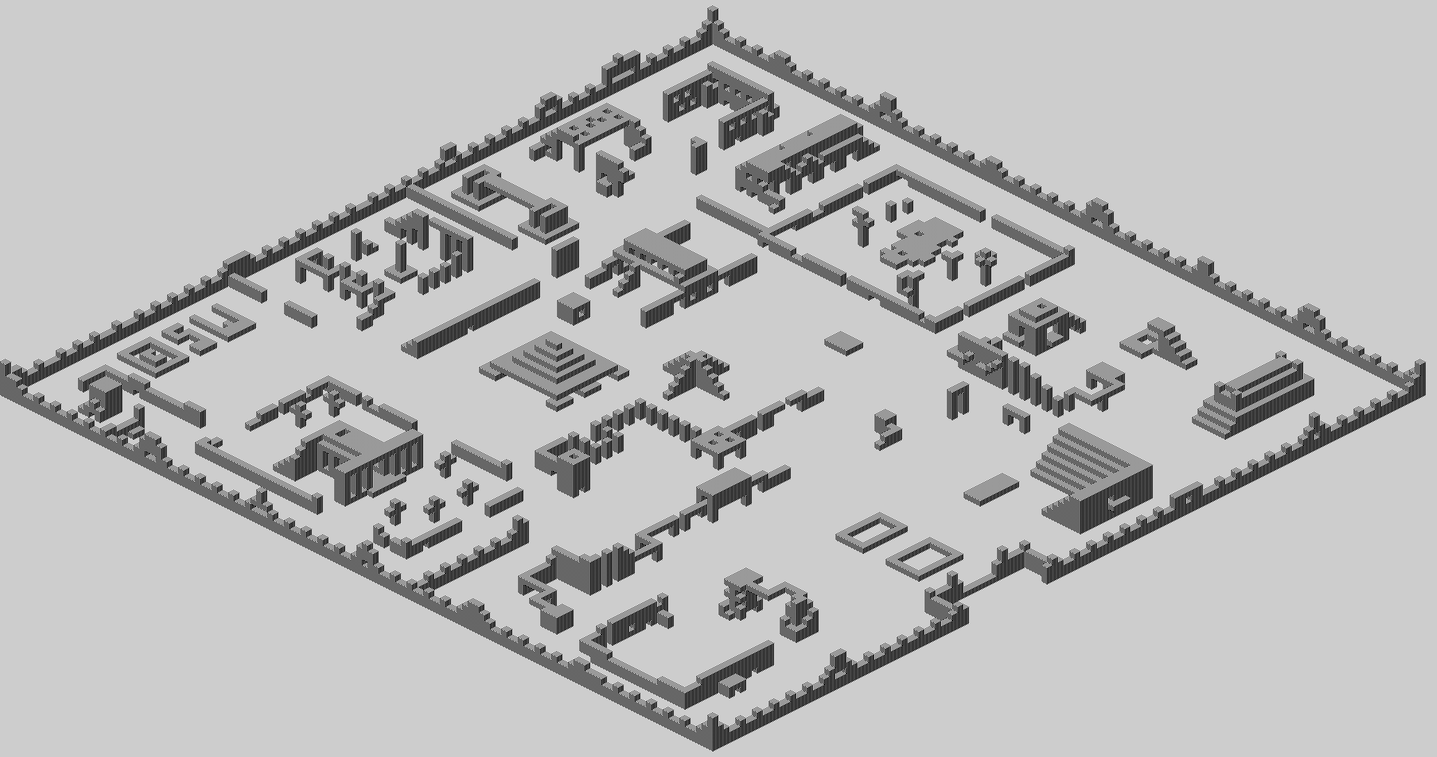
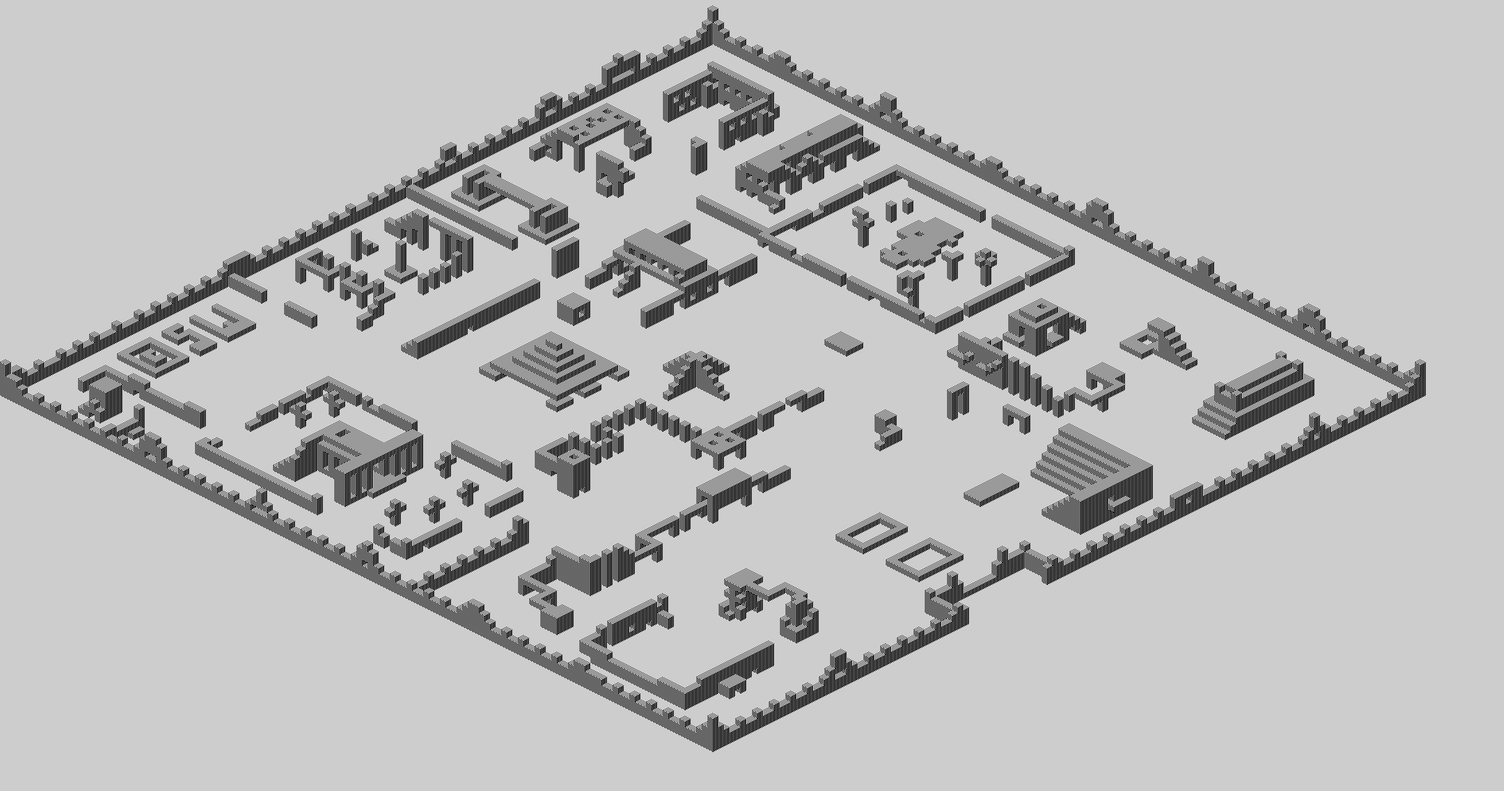
Update the published antattack disassembly
Built from master at 45df3ac0 by scripts/publish_pages.py.

Changed region(s): [[0.0, 0.0, 0.9922, 1.0]]

diff --git a/antattack/City.html b/antattack/City.html
@@ -15,14 +15,12 @@
 </tr>
 </table>
 <p>Antescher is a map of 128 by 128 cells at <a href="asm/49152.html">CITY_MAP</a>, one byte a cell and one bit a height: bit 0 is a block on the ground, bit 5 a block five up, so a wall is a column of set bits. Coordinates run from $80 to $FF; anything lower is outside the walls, where nothing is solid and nothing collides. Each row of the map is an entry of its own in the listing.</p>
-<p>From above, the taller the darker, with the open ground past the gate drawn below the city. x runs left to right, y top to bottom. Each layer is read from the game when these pages are built -- the city map, BASIC's DATA and the levels -- and a box shows or hides it. Click a row to see its bytes.</p>
-<div class="aa-layers"><input type="checkbox" class="aa-toggle" id="aa-layer-start" checked><label for="aa-layer-start"><span class="aa-key aa-key-start"></span>Where the player starts</label><input type="checkbox" class="aa-toggle" id="aa-layer-gate" checked><label for="aa-layer-gate"><span class="aa-key aa-key-gate"></span>The way in and out</label><input type="checkbox" class="aa-toggle" id="aa-layer-ants" checked><label for="aa-layer-ants"><span class="aa-key aa-key-ants"></span>Where the ants start</label><input type="checkbox" class="aa-toggle" id="aa-layer-rescue" checked><label for="aa-layer-rescue"><span class="aa-key aa-key-rescue"></span>Where someone waits, by level</label><div class="aa-city"><div class="aa-city-stack"><img src="images/city/above.png" usemap="#aacity" alt="Antescher from above" width="768" height="840"><img class="aa-layer aa-layer-start" src="images/city/layer_start.png" alt=""><img class="aa-layer aa-layer-gate" src="images/city/layer_gate.png" alt=""><img class="aa-layer aa-layer-ants" src="images/city/layer_ants.png" alt=""><img class="aa-layer aa-layer-rescue" src="images/city/layer_rescue.png" alt=""></div><map name="aacity"><area shape="rect" coords="0,0,768,6" href="asm/49152.html" title="y=$80" alt="y=$80"><area shape="rect" coords="0,6,768,12" href="asm/49280.html" title="y=$81" alt="y=$81"><area shape="rect" coords="0,12,768,18" href="asm/49408.html" title="y=$82" alt="y=$82"><area shape="rect" coords="0,18,768,24" href="asm/49536.html" title="y=$83" alt="y=$83"><area shape="rect" coords="0,24,768,30" href="asm/49664.html" title="y=$84" alt="y=$84"><area shape="rect" coords="0,30,768,36" href="asm/49792.html" title="y=$85" alt="y=$85"><area shape="rect" coords="0,36,768,42" href="asm/49920.html" title="y=$86" alt="y=$86"><area shape="rect" coords="0,42,768,48" href="asm/50048.html" title="y=$87" alt="y=$87"><area shape="rect" coords="0,48,768,54" href="asm/50176.html" title="y=$88" alt="y=$88"><area shape="rect" coords="0,54,768,60" href="asm/50304.html" title="y=$89" alt="y=$89"><area shape="rect" coords="0,60,768,66" href="asm/50432.html" title="y=$8A" alt="y=$8A"><area shape="rect" coords="0,66,768,72" href="asm/50560.html" title="y=$8B" alt="y=$8B"><area shape="rect" coords="0,72,768,78" href="asm/50688.html" title="y=$8C" alt="y=$8C"><area shape="rect" coords="0,78,768,84" href="asm/50816.html" title="y=$8D" alt="y=$8D"><area shape="rect" coords="0,84,768,90" href="asm/50944.html" title="y=$8E" alt="y=$8E"><area shape="rect" coords="0,90,768,96" href="asm/51072.html" title="y=$8F" alt="y=$8F"><area shape="rect" coords="0,96,768,102" href="asm/51200.html" title="y=$90" alt="y=$90"><area shape="rect" coords="0,102,768,108" href="asm/51328.html" title="y=$91" alt="y=$91"><area shape="rect" coords="0,108,768,114" href="asm/51456.html" title="y=$92" alt="y=$92"><area shape="rect" coords="0,114,768,120" href="asm/51584.html" title="y=$93" alt="y=$93"><area shape="rect" coords="0,120,768,126" href="asm/51712.html" title="y=$94" alt="y=$94"><area shape="rect" coords="0,126,768,132" href="asm/51840.html" title="y=$95" alt="y=$95"><area shape="rect" coords="0,132,768,138" href="asm/51968.html" title="y=$96" alt="y=$96"><area shape="rect" coords="0,138,768,144" href="asm/52096.html" title="y=$97" alt="y=$97"><area shape="rect" coords="0,144,768,150" href="asm/52224.html" title="y=$98" alt="y=$98"><area shape="rect" coords="0,150,768,156" href="asm/52352.html" title="y=$99" alt="y=$99"><area shape="rect" coords="0,156,768,162" href="asm/52480.html" title="y=$9A" alt="y=$9A"><area shape="rect" coords="0,162,768,168" href="asm/52608.html" title="y=$9B" alt="y=$9B"><area shape="rect" coords="0,168,768,174" href="asm/52736.html" title="y=$9C" alt="y=$9C"><area shape="rect" coords="0,174,768,180" href="asm/52864.html" title="y=$9D" alt="y=$9D"><area shape="rect" coords="0,180,768,186" href="asm/52992.html" title="y=$9E" alt="y=$9E"><area shape="rect" coords="0,186,768,192" href="asm/53120.html" title="y=$9F" alt="y=$9F"><area shape="rect" coords="0,192,768,198" href="asm/53248.html" title="y=$A0" alt="y=$A0"><area shape="rect" coords="0,198,768,204" href="asm/53376.html" title="y=$A1" alt="y=$A1"><area shape="rect" coords="0,204,768,210" href="asm/53504.html" title="y=$A2" alt="y=$A2"><area shape="rect" coords="0,210,768,216" href="asm/53632.html" title="y=$A3" alt="y=$A3"><area shape="rect" coords="0,216,768,222" href="asm/53760.html" title="y=$A4" alt="y=$A4"><area shape="rect" coords="0,222,768,228" href="asm/53888.html" title="y=$A5" alt="y=$A5"><area shape="rect" coords="0,228,768,234" href="asm/54016.html" title="y=$A6" alt="y=$A6"><area shape="rect" coords="0,234,768,240" href="asm/54144.html" title="y=$A7" alt="y=$A7"><area shape="rect" coords="0,240,768,246" href="asm/54272.html" title="y=$A8" alt="y=$A8"><area shape="rect" coords="0,246,768,252" href="asm/54400.html" title="y=$A9" alt="y=$A9"><area shape="rect" coords="0,252,768,258" href="asm/54528.html" title="y=$AA" alt="y=$AA"><area shape="rect" coords="0,258,768,264" href="asm/54656.html" title="y=$AB" alt="y=$AB"><area shape="rect" coords="0,264,768,270" href="asm/54784.html" title="y=$AC" alt="y=$AC"><area shape="rect" coords="0,270,768,276" href="asm/54912.html" title="y=$AD" alt="y=$AD"><area shape="rect" coords="0,276,768,282" href="asm/55040.html" title="y=$AE" alt="y=$AE"><area shape="rect" coords="0,282,768,288" href="asm/55168.html" title="y=$AF" alt="y=$AF"><area shape="rect" coords="0,288,768,294" href="asm/55296.html" title="y=$B0" alt="y=$B0"><area shape="rect" coords="0,294,768,300" href="asm/55424.html" title="y=$B1" alt="y=$B1"><area shape="rect" coords="0,300,768,306" href="asm/55552.html" title="y=$B2" alt="y=$B2"><area shape="rect" coords="0,306,768,312" href="asm/55680.html" title="y=$B3" alt="y=$B3"><area shape="rect" coords="0,312,768,318" href="asm/55808.html" title="y=$B4" alt="y=$B4"><area shape="rect" coords="0,318,768,324" href="asm/55936.html" title="y=$B5" alt="y=$B5"><area shape="rect" coords="0,324,768,330" href="asm/56064.html" title="y=$B6" alt="y=$B6"><area shape="rect" coords="0,330,768,336" href="asm/56192.html" title="y=$B7" alt="y=$B7"><area shape="rect" coords="0,336,768,342" href="asm/56320.html" title="y=$B8" alt="y=$B8"><area shape="rect" coords="0,342,768,348" href="asm/56448.html" title="y=$B9" alt="y=$B9"><area shape="rect" coords="0,348,768,354" href="asm/56576.html" title="y=$BA" alt="y=$BA"><area shape="rect" coords="0,354,768,360" href="asm/56704.html" title="y=$BB" alt="y=$BB"><area shape="rect" coords="0,360,768,366" href="asm/56832.html" title="y=$BC" alt="y=$BC"><area shape="rect" coords="0,366,768,372" href="asm/56960.html" title="y=$BD" alt="y=$BD"><area shape="rect" coords="0,372,768,378" href="asm/57088.html" title="y=$BE" alt="y=$BE"><area shape="rect" coords="0,378,768,384" href="asm/57216.html" title="y=$BF" alt="y=$BF"><area shape="rect" coords="0,384,768,390" href="asm/57344.html" title="y=$C0" alt="y=$C0"><area shape="rect" coords="0,390,768,396" href="asm/57472.html" title="y=$C1" alt="y=$C1"><area shape="rect" coords="0,396,768,402" href="asm/57600.html" title="y=$C2" alt="y=$C2"><area shape="rect" coords="0,402,768,408" href="asm/57728.html" title="y=$C3" alt="y=$C3"><area shape="rect" coords="0,408,768,414" href="asm/57856.html" title="y=$C4" alt="y=$C4"><area shape="rect" coords="0,414,768,420" href="asm/57984.html" title="y=$C5" alt="y=$C5"><area shape="rect" coords="0,420,768,426" href="asm/58112.html" title="y=$C6" alt="y=$C6"><area shape="rect" coords="0,426,768,432" href="asm/58240.html" title="y=$C7" alt="y=$C7"><area shape="rect" coords="0,432,768,438" href="asm/58368.html" title="y=$C8" alt="y=$C8"><area shape="rect" coords="0,438,768,444" href="asm/58496.html" title="y=$C9" alt="y=$C9"><area shape="rect" coords="0,444,768,450" href="asm/58624.html" title="y=$CA" alt="y=$CA"><area shape="rect" coords="0,450,768,456" href="asm/58752.html" title="y=$CB" alt="y=$CB"><area shape="rect" coords="0,456,768,462" href="asm/58880.html" title="y=$CC" alt="y=$CC"><area shape="rect" coords="0,462,768,468" href="asm/59008.html" title="y=$CD" alt="y=$CD"><area shape="rect" coords="0,468,768,474" href="asm/59136.html" title="y=$CE" alt="y=$CE"><area shape="rect" coords="0,474,768,480" href="asm/59264.html" title="y=$CF" alt="y=$CF"><area shape="rect" coords="0,480,768,486" href="asm/59392.html" title="y=$D0" alt="y=$D0"><area shape="rect" coords="0,486,768,492" href="asm/59520.html" title="y=$D1" alt="y=$D1"><area shape="rect" coords="0,492,768,498" href="asm/59648.html" title="y=$D2" alt="y=$D2"><area shape="rect" coords="0,498,768,504" href="asm/59776.html" title="y=$D3" alt="y=$D3"><area shape="rect" coords="0,504,768,510" href="asm/59904.html" title="y=$D4" alt="y=$D4"><area shape="rect" coords="0,510,768,516" href="asm/60032.html" title="y=$D5" alt="y=$D5"><area shape="rect" coords="0,516,768,522" href="asm/60160.html" title="y=$D6" alt="y=$D6"><area shape="rect" coords="0,522,768,528" href="asm/60288.html" title="y=$D7" alt="y=$D7"><area shape="rect" coords="0,528,768,534" href="asm/60416.html" title="y=$D8" alt="y=$D8"><area shape="rect" coords="0,534,768,540" href="asm/60544.html" title="y=$D9" alt="y=$D9"><area shape="rect" coords="0,540,768,546" href="asm/60672.html" title="y=$DA" alt="y=$DA"><area shape="rect" coords="0,546,768,552" href="asm/60800.html" title="y=$DB" alt="y=$DB"><area shape="rect" coords="0,552,768,558" href="asm/60928.html" title="y=$DC" alt="y=$DC"><area shape="rect" coords="0,558,768,564" href="asm/61056.html" title="y=$DD" alt="y=$DD"><area shape="rect" coords="0,564,768,570" href="asm/61184.html" title="y=$DE" alt="y=$DE"><area shape="rect" coords="0,570,768,576" href="asm/61312.html" title="y=$DF" alt="y=$DF"><area shape="rect" coords="0,576,768,582" href="asm/61440.html" title="y=$E0" alt="y=$E0"><area shape="rect" coords="0,582,768,588" href="asm/61568.html" title="y=$E1" alt="y=$E1"><area shape="rect" coords="0,588,768,594" href="asm/61696.html" title="y=$E2" alt="y=$E2"><area shape="rect" coords="0,594,768,600" href="asm/61824.html" title="y=$E3" alt="y=$E3"><area shape="rect" coords="0,600,768,606" href="asm/61952.html" title="y=$E4" alt="y=$E4"><area shape="rect" coords="0,606,768,612" href="asm/62080.html" title="y=$E5" alt="y=$E5"><area shape="rect" coords="0,612,768,618" href="asm/62208.html" title="y=$E6" alt="y=$E6"><area shape="rect" coords="0,618,768,624" href="asm/62336.html" title="y=$E7" alt="y=$E7"><area shape="rect" coords="0,624,768,630" href="asm/62464.html" title="y=$E8" alt="y=$E8"><area shape="rect" coords="0,630,768,636" href="asm/62592.html" title="y=$E9" alt="y=$E9"><area shape="rect" coords="0,636,768,642" href="asm/62720.html" title="y=$EA" alt="y=$EA"><area shape="rect" coords="0,642,768,648" href="asm/62848.html" title="y=$EB" alt="y=$EB"><area shape="rect" coords="0,648,768,654" href="asm/62976.html" title="y=$EC" alt="y=$EC"><area shape="rect" coords="0,654,768,660" href="asm/63104.html" title="y=$ED" alt="y=$ED"><area shape="rect" coords="0,660,768,666" href="asm/63232.html" title="y=$EE" alt="y=$EE"><area shape="rect" coords="0,666,768,672" href="asm/63360.html" title="y=$EF" alt="y=$EF"><area shape="rect" coords="0,672,768,678" href="asm/63488.html" title="y=$F0" alt="y=$F0"><area shape="rect" coords="0,678,768,684" href="asm/63616.html" title="y=$F1" alt="y=$F1"><area shape="rect" coords="0,684,768,690" href="asm/63744.html" title="y=$F2" alt="y=$F2"><area shape="rect" coords="0,690,768,696" href="asm/63872.html" title="y=$F3" alt="y=$F3"><area shape="rect" coords="0,696,768,702" href="asm/64000.html" title="y=$F4" alt="y=$F4"><area shape="rect" coords="0,702,768,708" href="asm/64128.html" title="y=$F5" alt="y=$F5"><area shape="rect" coords="0,708,768,714" href="asm/64256.html" title="y=$F6" alt="y=$F6"><area shape="rect" coords="0,714,768,720" href="asm/64384.html" title="y=$F7" alt="y=$F7"><area shape="rect" coords="0,720,768,726" href="asm/64512.html" title="y=$F8" alt="y=$F8"><area shape="rect" coords="0,726,768,732" href="asm/64640.html" title="y=$F9" alt="y=$F9"><area shape="rect" coords="0,732,768,738" href="asm/64768.html" title="y=$FA" alt="y=$FA"><area shape="rect" coords="0,738,768,744" href="asm/64896.html" title="y=$FB" alt="y=$FB"><area shape="rect" coords="0,744,768,750" href="asm/65024.html" title="y=$FC" alt="y=$FC"><area shape="rect" coords="0,750,768,756" href="asm/65152.html" title="y=$FD" alt="y=$FD"><area shape="rect" coords="0,756,768,762" href="asm/65280.html" title="y=$FE" alt="y=$FE"><area shape="rect" coords="0,762,768,768" href="asm/65408.html" title="y=$FF" alt="y=$FF"></map></div></div>
+<p>The whole city at once, the way the game draws a corner of it: view 0, each block the picture <a href="asm/33283.html">DRAW_BLOCK</a> paints -- captured by running that routine rather than copied -- and painted in the same order <a href="asm/34048.html">DRAW_SCENE</a> uses, lowest height first and then from the back, so every block hides exactly what it hides in the game. x runs up and to the right, y down and to the right; the open ground past the gate, where the player starts, is in front of the city at the bottom right. Each layer is read from the game when these pages are built -- the city map, BASIC's DATA and the levels -- and a box shows or hides it; a mark sits on its cell's ground, so one behind a wall shows through it. Click a row of the city to see its bytes.</p>
+<div class="aa-layers"><input type="checkbox" class="aa-toggle" id="aa-layer-start" checked><label for="aa-layer-start"><span class="aa-key aa-key-start"></span>Where the player starts</label><input type="checkbox" class="aa-toggle" id="aa-layer-gate" checked><label for="aa-layer-gate"><span class="aa-key aa-key-gate"></span>The way in and out</label><input type="checkbox" class="aa-toggle" id="aa-layer-ants" checked><label for="aa-layer-ants"><span class="aa-key aa-key-ants"></span>Where the ants start</label><input type="checkbox" class="aa-toggle" id="aa-layer-rescue" checked><label for="aa-layer-rescue"><span class="aa-key aa-key-rescue"></span>Where someone waits, by level</label><div class="aa-city"><div class="aa-city-stack"><img src="images/city/city.png" usemap="#aacity" alt="Antescher in the game's projection" width="2160" height="1136"><img class="aa-layer aa-layer-start" src="images/city/layer_start.png" alt=""><img class="aa-layer aa-layer-gate" src="images/city/layer_gate.png" alt=""><img class="aa-layer aa-layer-ants" src="images/city/layer_ants.png" alt=""><img class="aa-layer aa-layer-rescue" src="images/city/layer_rescue.png" alt=""></div><map name="aacity"><area shape="poly" coords="0,567,1024,55,1032,59,8,571" href="asm/49152.html" title="y=$80" alt="y=$80"><area shape="poly" coords="8,571,1032,59,1040,63,16,575" href="asm/49280.html" title="y=$81" alt="y=$81"><area shape="poly" coords="16,575,1040,63,1048,67,24,579" href="asm/49408.html" title="y=$82" alt="y=$82"><area shape="poly" coords="24,579,1048,67,1056,71,32,583" href="asm/49536.html" title="y=$83" alt="y=$83"><area shape="poly" coords="32,583,1056,71,1064,75,40,587" href="asm/49664.html" title="y=$84" alt="y=$84"><area shape="poly" coords="40,587,1064,75,1072,79,48,591" href="asm/49792.html" title="y=$85" alt="y=$85"><area shape="poly" coords="48,591,1072,79,1080,83,56,595" href="asm/49920.html" title="y=$86" alt="y=$86"><area shape="poly" coords="56,595,1080,83,1088,87,64,599" href="asm/50048.html" title="y=$87" alt="y=$87"><area shape="poly" coords="64,599,1088,87,1096,91,72,603" href="asm/50176.html" title="y=$88" alt="y=$88"><area shape="poly" coords="72,603,1096,91,1104,95,80,607" href="asm/50304.html" title="y=$89" alt="y=$89"><area shape="poly" coords="80,607,1104,95,1112,99,88,611" href="asm/50432.html" title="y=$8A" alt="y=$8A"><area shape="poly" coords="88,611,1112,99,1120,103,96,615" href="asm/50560.html" title="y=$8B" alt="y=$8B"><area shape="poly" coords="96,615,1120,103,1128,107,104,619" href="asm/50688.html" title="y=$8C" alt="y=$8C"><area shape="poly" coords="104,619,1128,107,1136,111,112,623" href="asm/50816.html" title="y=$8D" alt="y=$8D"><area shape="poly" coords="112,623,1136,111,1144,115,120,627" href="asm/50944.html" title="y=$8E" alt="y=$8E"><area shape="poly" coords="120,627,1144,115,1152,119,128,631" href="asm/51072.html" title="y=$8F" alt="y=$8F"><area shape="poly" coords="128,631,1152,119,1160,123,136,635" href="asm/51200.html" title="y=$90" alt="y=$90"><area shape="poly" coords="136,635,1160,123,1168,127,144,639" href="asm/51328.html" title="y=$91" alt="y=$91"><area shape="poly" coords="144,639,1168,127,1176,131,152,643" href="asm/51456.html" title="y=$92" alt="y=$92"><area shape="poly" coords="152,643,1176,131,1184,135,160,647" href="asm/51584.html" title="y=$93" alt="y=$93"><area shape="poly" coords="160,647,1184,135,1192,139,168,651" href="asm/51712.html" title="y=$94" alt="y=$94"><area shape="poly" coords="168,651,1192,139,1200,143,176,655" href="asm/51840.html" title="y=$95" alt="y=$95"><area shape="poly" coords="176,655,1200,143,1208,147,184,659" href="asm/51968.html" title="y=$96" alt="y=$96"><area shape="poly" coords="184,659,1208,147,1216,151,192,663" href="asm/52096.html" title="y=$97" alt="y=$97"><area shape="poly" coords="192,663,1216,151,1224,155,200,667" href="asm/52224.html" title="y=$98" alt="y=$98"><area shape="poly" coords="200,667,1224,155,1232,159,208,671" href="asm/52352.html" title="y=$99" alt="y=$99"><area shape="poly" coords="208,671,1232,159,1240,163,216,675" href="asm/52480.html" title="y=$9A" alt="y=$9A"><area shape="poly" coords="216,675,1240,163,1248,167,224,679" href="asm/52608.html" title="y=$9B" alt="y=$9B"><area shape="poly" coords="224,679,1248,167,1256,171,232,683" href="asm/52736.html" title="y=$9C" alt="y=$9C"><area shape="poly" coords="232,683,1256,171,1264,175,240,687" href="asm/52864.html" title="y=$9D" alt="y=$9D"><area shape="poly" coords="240,687,1264,175,1272,179,248,691" href="asm/52992.html" title="y=$9E" alt="y=$9E"><area shape="poly" coords="248,691,1272,179,1280,183,256,695" href="asm/53120.html" title="y=$9F" alt="y=$9F"><area shape="poly" coords="256,695,1280,183,1288,187,264,699" href="asm/53248.html" title="y=$A0" alt="y=$A0"><area shape="poly" coords="264,699,1288,187,1296,191,272,703" href="asm/53376.html" title="y=$A1" alt="y=$A1"><area shape="poly" coords="272,703,1296,191,1304,195,280,707" href="asm/53504.html" title="y=$A2" alt="y=$A2"><area shape="poly" coords="280,707,1304,195,1312,199,288,711" href="asm/53632.html" title="y=$A3" alt="y=$A3"><area shape="poly" coords="288,711,1312,199,1320,203,296,715" href="asm/53760.html" title="y=$A4" alt="y=$A4"><area shape="poly" coords="296,715,1320,203,1328,207,304,719" href="asm/53888.html" title="y=$A5" alt="y=$A5"><area shape="poly" coords="304,719,1328,207,1336,211,312,723" href="asm/54016.html" title="y=$A6" alt="y=$A6"><area shape="poly" coords="312,723,1336,211,1344,215,320,727" href="asm/54144.html" title="y=$A7" alt="y=$A7"><area shape="poly" coords="320,727,1344,215,1352,219,328,731" href="asm/54272.html" title="y=$A8" alt="y=$A8"><area shape="poly" coords="328,731,1352,219,1360,223,336,735" href="asm/54400.html" title="y=$A9" alt="y=$A9"><area shape="poly" coords="336,735,1360,223,1368,227,344,739" href="asm/54528.html" title="y=$AA" alt="y=$AA"><area shape="poly" coords="344,739,1368,227,1376,231,352,743" href="asm/54656.html" title="y=$AB" alt="y=$AB"><area shape="poly" coords="352,743,1376,231,1384,235,360,747" href="asm/54784.html" title="y=$AC" alt="y=$AC"><area shape="poly" coords="360,747,1384,235,1392,239,368,751" href="asm/54912.html" title="y=$AD" alt="y=$AD"><area shape="poly" coords="368,751,1392,239,1400,243,376,755" href="asm/55040.html" title="y=$AE" alt="y=$AE"><area shape="poly" coords="376,755,1400,243,1408,247,384,759" href="asm/55168.html" title="y=$AF" alt="y=$AF"><area shape="poly" coords="384,759,1408,247,1416,251,392,763" href="asm/55296.html" title="y=$B0" alt="y=$B0"><area shape="poly" coords="392,763,1416,251,1424,255,400,767" href="asm/55424.html" title="y=$B1" alt="y=$B1"><area shape="poly" coords="400,767,1424,255,1432,259,408,771" href="asm/55552.html" title="y=$B2" alt="y=$B2"><area shape="poly" coords="408,771,1432,259,1440,263,416,775" href="asm/55680.html" title="y=$B3" alt="y=$B3"><area shape="poly" coords="416,775,1440,263,1448,267,424,779" href="asm/55808.html" title="y=$B4" alt="y=$B4"><area shape="poly" coords="424,779,1448,267,1456,271,432,783" href="asm/55936.html" title="y=$B5" alt="y=$B5"><area shape="poly" coords="432,783,1456,271,1464,275,440,787" href="asm/56064.html" title="y=$B6" alt="y=$B6"><area shape="poly" coords="440,787,1464,275,1472,279,448,791" href="asm/56192.html" title="y=$B7" alt="y=$B7"><area shape="poly" coords="448,791,1472,279,1480,283,456,795" href="asm/56320.html" title="y=$B8" alt="y=$B8"><area shape="poly" coords="456,795,1480,283,1488,287,464,799" href="asm/56448.html" title="y=$B9" alt="y=$B9"><area shape="poly" coords="464,799,1488,287,1496,291,472,803" href="asm/56576.html" title="y=$BA" alt="y=$BA"><area shape="poly" coords="472,803,1496,291,1504,295,480,807" href="asm/56704.html" title="y=$BB" alt="y=$BB"><area shape="poly" coords="480,807,1504,295,1512,299,488,811" href="asm/56832.html" title="y=$BC" alt="y=$BC"><area shape="poly" coords="488,811,1512,299,1520,303,496,815" href="asm/56960.html" title="y=$BD" alt="y=$BD"><area shape="poly" coords="496,815,1520,303,1528,307,504,819" href="asm/57088.html" title="y=$BE" alt="y=$BE"><area shape="poly" coords="504,819,1528,307,1536,311,512,823" href="asm/57216.html" title="y=$BF" alt="y=$BF"><area shape="poly" coords="512,823,1536,311,1544,315,520,827" href="asm/57344.html" title="y=$C0" alt="y=$C0"><area shape="poly" coords="520,827,1544,315,1552,319,528,831" href="asm/57472.html" title="y=$C1" alt="y=$C1"><area shape="poly" coords="528,831,1552,319,1560,323,536,835" href="asm/57600.html" title="y=$C2" alt="y=$C2"><area shape="poly" coords="536,835,1560,323,1568,327,544,839" href="asm/57728.html" title="y=$C3" alt="y=$C3"><area shape="poly" coords="544,839,1568,327,1576,331,552,843" href="asm/57856.html" title="y=$C4" alt="y=$C4"><area shape="poly" coords="552,843,1576,331,1584,335,560,847" href="asm/57984.html" title="y=$C5" alt="y=$C5"><area shape="poly" coords="560,847,1584,335,1592,339,568,851" href="asm/58112.html" title="y=$C6" alt="y=$C6"><area shape="poly" coords="568,851,1592,339,1600,343,576,855" href="asm/58240.html" title="y=$C7" alt="y=$C7"><area shape="poly" coords="576,855,1600,343,1608,347,584,859" href="asm/58368.html" title="y=$C8" alt="y=$C8"><area shape="poly" coords="584,859,1608,347,1616,351,592,863" href="asm/58496.html" title="y=$C9" alt="y=$C9"><area shape="poly" coords="592,863,1616,351,1624,355,600,867" href="asm/58624.html" title="y=$CA" alt="y=$CA"><area shape="poly" coords="600,867,1624,355,1632,359,608,871" href="asm/58752.html" title="y=$CB" alt="y=$CB"><area shape="poly" coords="608,871,1632,359,1640,363,616,875" href="asm/58880.html" title="y=$CC" alt="y=$CC"><area shape="poly" coords="616,875,1640,363,1648,367,624,879" href="asm/59008.html" title="y=$CD" alt="y=$CD"><area shape="poly" coords="624,879,1648,367,1656,371,632,883" href="asm/59136.html" title="y=$CE" alt="y=$CE"><area shape="poly" coords="632,883,1656,371,1664,375,640,887" href="asm/59264.html" title="y=$CF" alt="y=$CF"><area shape="poly" coords="640,887,1664,375,1672,379,648,891" href="asm/59392.html" title="y=$D0" alt="y=$D0"><area shape="poly" coords="648,891,1672,379,1680,383,656,895" href="asm/59520.html" title="y=$D1" alt="y=$D1"><area shape="poly" coords="656,895,1680,383,1688,387,664,899" href="asm/59648.html" title="y=$D2" alt="y=$D2"><area shape="poly" coords="664,899,1688,387,1696,391,672,903" href="asm/59776.html" title="y=$D3" alt="y=$D3"><area shape="poly" coords="672,903,1696,391,1704,395,680,907" href="asm/59904.html" title="y=$D4" alt="y=$D4"><area shape="poly" coords="680,907,1704,395,1712,399,688,911" href="asm/60032.html" title="y=$D5" alt="y=$D5"><area shape="poly" coords="688,911,1712,399,1720,403,696,915" href="asm/60160.html" title="y=$D6" alt="y=$D6"><area shape="poly" coords="696,915,1720,403,1728,407,704,919" href="asm/60288.html" title="y=$D7" alt="y=$D7"><area shape="poly" coords="704,919,1728,407,1736,411,712,923" href="asm/60416.html" title="y=$D8" alt="y=$D8"><area shape="poly" coords="712,923,1736,411,1744,415,720,927" href="asm/60544.html" title="y=$D9" alt="y=$D9"><area shape="poly" coords="720,927,1744,415,1752,419,728,931" href="asm/60672.html" title="y=$DA" alt="y=$DA"><area shape="poly" coords="728,931,1752,419,1760,423,736,935" href="asm/60800.html" title="y=$DB" alt="y=$DB"><area shape="poly" coords="736,935,1760,423,1768,427,744,939" href="asm/60928.html" title="y=$DC" alt="y=$DC"><area shape="poly" coords="744,939,1768,427,1776,431,752,943" href="asm/61056.html" title="y=$DD" alt="y=$DD"><area shape="poly" coords="752,943,1776,431,1784,435,760,947" href="asm/61184.html" title="y=$DE" alt="y=$DE"><area shape="poly" coords="760,947,1784,435,1792,439,768,951" href="asm/61312.html" title="y=$DF" alt="y=$DF"><area shape="poly" coords="768,951,1792,439,1800,443,776,955" href="asm/61440.html" title="y=$E0" alt="y=$E0"><area shape="poly" coords="776,955,1800,443,1808,447,784,959" href="asm/61568.html" title="y=$E1" alt="y=$E1"><area shape="poly" coords="784,959,1808,447,1816,451,792,963" href="asm/61696.html" title="y=$E2" alt="y=$E2"><area shape="poly" coords="792,963,1816,451,1824,455,800,967" href="asm/61824.html" title="y=$E3" alt="y=$E3"><area shape="poly" coords="800,967,1824,455,1832,459,808,971" href="asm/61952.html" title="y=$E4" alt="y=$E4"><area shape="poly" coords="808,971,1832,459,1840,463,816,975" href="asm/62080.html" title="y=$E5" alt="y=$E5"><area shape="poly" coords="816,975,1840,463,1848,467,824,979" href="asm/62208.html" title="y=$E6" alt="y=$E6"><area shape="poly" coords="824,979,1848,467,1856,471,832,983" href="asm/62336.html" title="y=$E7" alt="y=$E7"><area shape="poly" coords="832,983,1856,471,1864,475,840,987" href="asm/62464.html" title="y=$E8" alt="y=$E8"><area shape="poly" coords="840,987,1864,475,1872,479,848,991" href="asm/62592.html" title="y=$E9" alt="y=$E9"><area shape="poly" coords="848,991,1872,479,1880,483,856,995" href="asm/62720.html" title="y=$EA" alt="y=$EA"><area shape="poly" coords="856,995,1880,483,1888,487,864,999" href="asm/62848.html" title="y=$EB" alt="y=$EB"><area shape="poly" coords="864,999,1888,487,1896,491,872,1003" href="asm/62976.html" title="y=$EC" alt="y=$EC"><area shape="poly" coords="872,1003,1896,491,1904,495,880,1007" href="asm/63104.html" title="y=$ED" alt="y=$ED"><area shape="poly" coords="880,1007,1904,495,1912,499,888,1011" href="asm/63232.html" title="y=$EE" alt="y=$EE"><area shape="poly" coords="888,1011,1912,499,1920,503,896,1015" href="asm/63360.html" title="y=$EF" alt="y=$EF"><area shape="poly" coords="896,1015,1920,503,1928,507,904,1019" href="asm/63488.html" title="y=$F0" alt="y=$F0"><area shape="poly" coords="904,1019,1928,507,1936,511,912,1023" href="asm/63616.html" title="y=$F1" alt="y=$F1"><area shape="poly" coords="912,1023,1936,511,1944,515,920,1027" href="asm/63744.html" title="y=$F2" alt="y=$F2"><area shape="poly" coords="920,1027,1944,515,1952,519,928,1031" href="asm/63872.html" title="y=$F3" alt="y=$F3"><area shape="poly" coords="928,1031,1952,519,1960,523,936,1035" href="asm/64000.html" title="y=$F4" alt="y=$F4"><area shape="poly" coords="936,1035,1960,523,1968,527,944,1039" href="asm/64128.html" title="y=$F5" alt="y=$F5"><area shape="poly" coords="944,1039,1968,527,1976,531,952,1043" href="asm/64256.html" title="y=$F6" alt="y=$F6"><area shape="poly" coords="952,1043,1976,531,1984,535,960,1047" href="asm/64384.html" title="y=$F7" alt="y=$F7"><area shape="poly" coords="960,1047,1984,535,1992,539,968,1051" href="asm/64512.html" title="y=$F8" alt="y=$F8"><area shape="poly" coords="968,1051,1992,539,2000,543,976,1055" href="asm/64640.html" title="y=$F9" alt="y=$F9"><area shape="poly" coords="976,1055,2000,543,2008,547,984,1059" href="asm/64768.html" title="y=$FA" alt="y=$FA"><area shape="poly" coords="984,1059,2008,547,2016,551,992,1063" href="asm/64896.html" title="y=$FB" alt="y=$FB"><area shape="poly" coords="992,1063,2016,551,2024,555,1000,1067" href="asm/65024.html" title="y=$FC" alt="y=$FC"><area shape="poly" coords="1000,1067,2024,555,2032,559,1008,1071" href="asm/65152.html" title="y=$FD" alt="y=$FD"><area shape="poly" coords="1008,1071,2032,559,2040,563,1016,1075" href="asm/65280.html" title="y=$FE" alt="y=$FE"><area shape="poly" coords="1016,1075,2040,563,2048,567,1024,1079" href="asm/65408.html" title="y=$FF" alt="y=$FF"></map></div></div>
 <p><span class="aa-key aa-key-start"></span><b>Where the player starts</b>: x=$B9, y=$04 -- the home BASIC gives the player (<a href="asm/46208.html">PLAYER</a>, +$0A and +$0B, from the DATA at line 110), just outside the gate: past y=$FF the coordinate wraps round to $00, and anything under $80 is outside the walls.</p>
 <p><span class="aa-key aa-key-gate"></span><b>The way in and out</b>: the 14 cells of the outer wall with nothing in them, x=$AE to $BB on the y=$FF side -- the only gap. A rescue is done when both people are out of the city (<a href="asm/36512.html">CHECK_RESCUED</a>).</p>
 <p><span class="aa-key aa-key-ants"></span><b>Where the ants start</b>: x=$BA, y=$A8, x=$B8, y=$A8, x=$B6, y=$A8, x=$B4, y=$A8, x=$B2, y=$A8 -- each ant's home from lines 140-180; an object goes home when its explosion countdown (+$09) runs out, and BASIC sets that to 1, so they appear there as a level starts.</p>
 <p><span class="aa-key aa-key-rescue"></span><b>Where someone waits</b>, numbered by level: see <a href="Levels.html">the levels</a> for how one of each level's places is picked.</p>
-<p>And the whole city at once, the way the game draws a corner of it: view 0, each block the picture <a href="asm/33283.html">DRAW_BLOCK</a> paints -- captured by running that routine rather than copied -- and painted in the same order <a href="asm/34048.html">DRAW_SCENE</a> uses, lowest height first and then from the back, so every block hides exactly what it hides in the game.</p>
-<p><img src="images/city/city.png" alt="Antescher in the game's projection" style="max-width:100%"></p>
 <footer>
 <div class="release">Disassembled from the original tape image</div>
 <div class="copyright">&copy; 1983 Sandy White (Quicksilva)</div>
